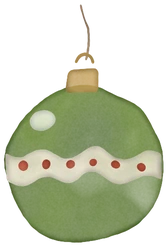
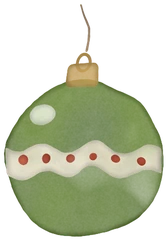
Ёлочный шар: петелька соединена с колпачком и ниточкой
Claude-Session: https://claude.ai/code/session_015keSwDSBN4uMjJvF6yDQUW

diff --git a/index.html b/index.html
@@ -204,7 +204,7 @@
     <div class="duo duo-one">
       <article class="duo-card">
         <div class="duo-frame">
-          <img decoding="async" class="art" src="assets/toy-drawing.webp" alt="" aria-hidden="true">
+          <img decoding="async" class="art" src="assets/toy-drawing.webp?v=2" alt="" aria-hidden="true">
           <span class="duo-tag">в процессе</span>
         </div>
         <div class="duo-text">
